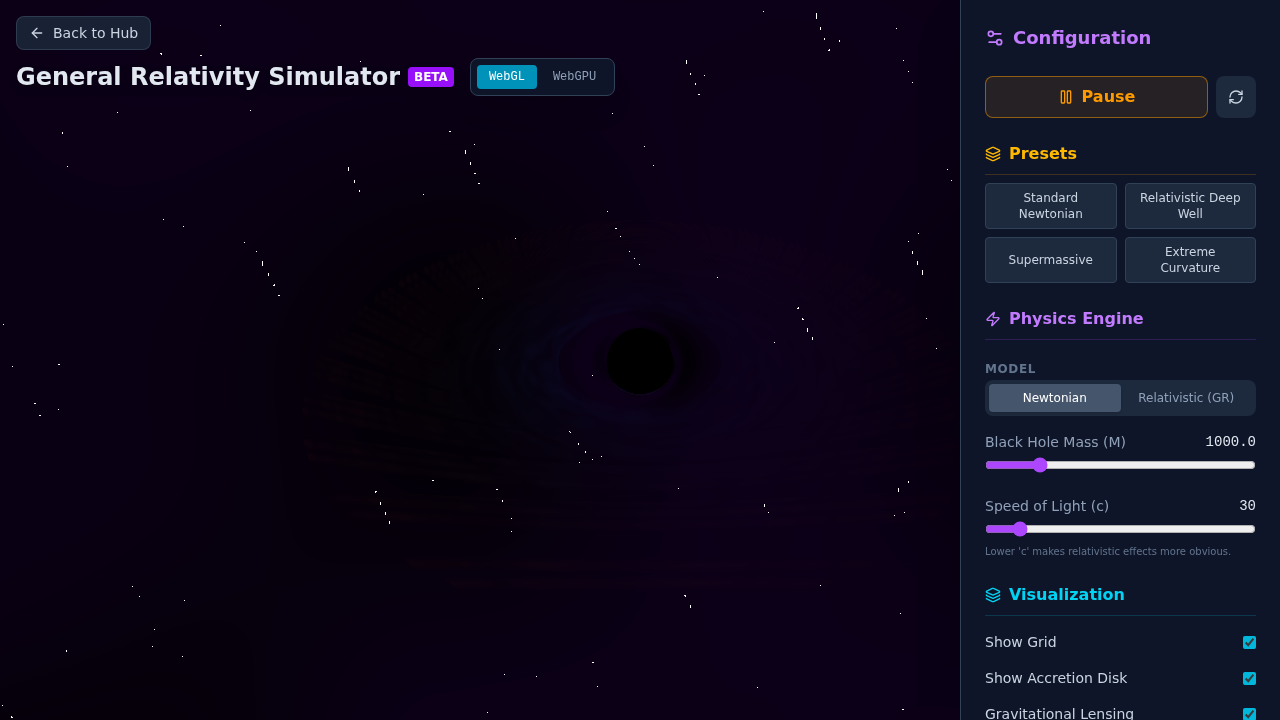
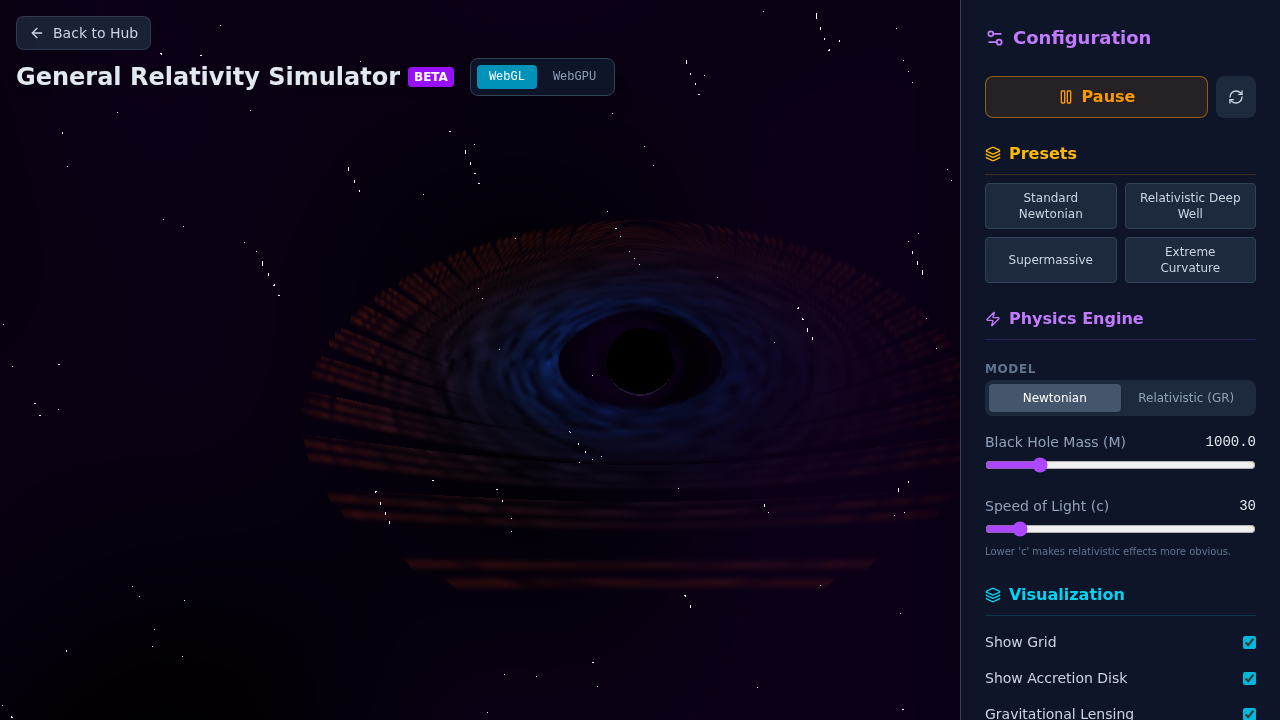
Boost accretion disk brightness in GR simulation
- Increased density multiplier from 0.5 to 1.5 in LensingEffect.jsx and TSLLensing.jsx.
- Increased color intensity multiplier from 2.0 to 5.0 in both shaders.
- Significantly improved visibility of the accretion disk in both WebGL and WebGPU renderers.

diff --git a/src/pages/GeneralRelativity/components/TSLLensing.jsx b/src/pages/GeneralRelativity/components/TSLLensing.jsx
@@ -180,9 +180,9 @@ export default function TSLLensing({ params }) {
                         diskCol.mulAssign(float(1.0).sub(doppler.mul(0.5)));
 
                         // Accumulate
-                        const alpha = density.mul(0.5).mul(stepDist);
+                        const alpha = density.mul(1.5).mul(stepDist);
                         // Boost color
-                        color.addAssign(diskCol.mul(2.0).mul(alpha).mul(float(1.0).sub(opacity)));
+                        color.addAssign(diskCol.mul(4.0).mul(alpha).mul(float(1.0).sub(opacity)));
                         opacity.addAssign(alpha);
 
                         If( opacity.greaterThan(0.95), () => {

diff --git a/src/pages/GeneralRelativity/components/LensingEffect.jsx b/src/pages/GeneralRelativity/components/LensingEffect.jsx
@@ -161,9 +161,9 @@ void main() {
 
             // Accumulate
             // Boost alpha for visibility
-            float alpha = density * 0.5 * stepDist;
+            float alpha = density * 1.5 * stepDist;
             // Boost color intensity
-            color += (diskCol * 2.0) * alpha * (1.0 - opacity);
+            color += (diskCol * 4.0) * alpha * (1.0 - opacity);
             opacity += alpha;
 
             if (opacity > 0.95) break;

diff --git a/verification/verify_gr_webgpu.py b/verification/verify_gr_webgpu.py
@@ -1,0 +1,40 @@
+from playwright.sync_api import sync_playwright
+import time
+
+def run(playwright):
+    browser = playwright.chromium.launch(headless=True, args=['--enable-unsafe-webgpu'])
+    page = browser.new_page()
+
+    # Navigate to the General Relativity page
+    url = "http://localhost:3000/three_body_problem/general-relativity"
+    print(f"Navigating to {url}")
+    page.goto(url)
+
+    # Wait for the canvas to be present
+    print("Waiting for canvas...")
+    page.wait_for_selector("canvas", timeout=10000)
+
+    # Click the WebGPU button
+    # The button text is "WebGPU"
+    print("Clicking WebGPU button...")
+    page.get_by_text("WebGPU").click()
+
+    # Wait for re-render
+    # The canvas component uses a 'key' prop to remount, so the canvas DOM element will be replaced
+    # We should wait for the new canvas
+    print("Waiting for WebGPU initialization...")
+    time.sleep(2) # Give React time to unmount/remount
+    page.wait_for_selector("canvas", timeout=10000)
+
+    # Wait for the async WebGPU init (monkey-patched render)
+    print("Waiting for render...")
+    time.sleep(5)
+
+    # Take a screenshot
+    print("Taking screenshot...")
+    page.screenshot(path="verification/gr_webgpu.png")
+
+    browser.close()
+
+with sync_playwright() as playwright:
+    run(playwright)

diff --git a/verification/verify_gr_webgpu_boosted.py b/verification/verify_gr_webgpu_boosted.py
@@ -1,0 +1,44 @@
+from playwright.sync_api import sync_playwright
+import time
+
+def run(playwright):
+    # User-suggested arguments for better GPU support
+    args = [
+        "--enable-unsafe-webgpu",
+        "--enable-features=Vulkan,VulkanFromANGLE,DefaultANGLEVulkan",
+        "--use-angle=vulkan",
+        "--ignore-gpu-blocklist",
+        "--disable-gpu-sandbox"
+    ]
+
+    browser = playwright.chromium.launch(headless=True, args=args)
+    page = browser.new_page()
+
+    # Listen to console logs
+    page.on("console", lambda msg: print(f"Browser Console: {msg.text}"))
+    page.on("pageerror", lambda exc: print(f"Browser Error: {exc}"))
+
+    url = "http://localhost:3000/three_body_problem/general-relativity"
+    print(f"Navigating to {url}")
+    page.goto(url)
+
+    # Wait for the canvas
+    page.wait_for_selector("canvas", timeout=10000)
+
+    # Click WebGPU
+    print("Clicking WebGPU button...")
+    page.get_by_role("button", name="WebGPU").click()
+
+    print("Waiting for WebGPU initialization...")
+    time.sleep(2)
+
+    # Wait longer for init and render
+    time.sleep(10)
+
+    print("Taking screenshot...")
+    page.screenshot(path="verification/gr_webgpu_boosted.png")
+
+    browser.close()
+
+with sync_playwright() as playwright:
+    run(playwright)

diff --git a/verification/verify_gr_webgpu_debug.py b/verification/verify_gr_webgpu_debug.py
@@ -1,0 +1,38 @@
+from playwright.sync_api import sync_playwright
+import time
+
+def run(playwright):
+    # Launch with arguments to enable WebGPU and potentially software rendering if hardware is missing
+    # --use-gl=angle --use-angle=vulkan might help in some docker containers but --enable-unsafe-webgpu is key
+    browser = playwright.chromium.launch(headless=True, args=['--enable-unsafe-webgpu'])
+    page = browser.new_page()
+
+    # Listen to console logs
+    page.on("console", lambda msg: print(f"Browser Console: {msg.text}"))
+    page.on("pageerror", lambda exc: print(f"Browser Error: {exc}"))
+
+    url = "http://localhost:3000/three_body_problem/general-relativity"
+    print(f"Navigating to {url}")
+    page.goto(url)
+
+    # Wait for the canvas
+    page.wait_for_selector("canvas", timeout=10000)
+
+    # Click WebGPU
+    print("Clicking WebGPU button...")
+    # Using a more specific locator to ensure we hit the button
+    page.get_by_role("button", name="WebGPU").click()
+
+    print("Waiting for WebGPU initialization...")
+    time.sleep(2)
+
+    # Wait longer for init
+    time.sleep(8)
+
+    print("Taking screenshot...")
+    page.screenshot(path="verification/gr_webgpu.png")
+
+    browser.close()
+
+with sync_playwright() as playwright:
+    run(playwright)
